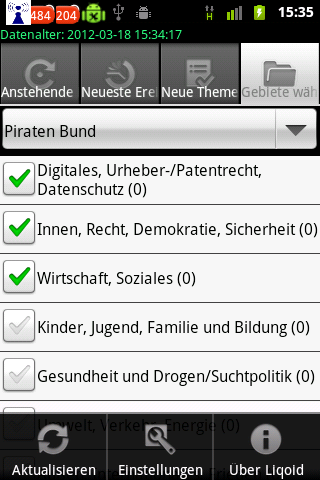
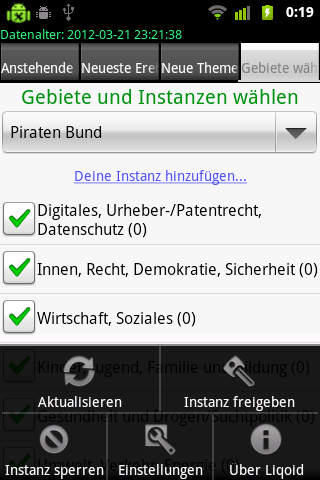
Userguide snapshots aktualisiert

diff --git a/src/de/quadrillenschule/liquidroid/LiqoidApplication.java b/src/de/quadrillenschule/liquidroid/LiqoidApplication.java
@@ -156,11 +156,11 @@ public class LiqoidApplication extends Application {
                 lin.setDeveloperkey(textfield.getText().toString());
                 lqfbInstances.add(lin);
                 lqfbInstances.getLockedInstances().remove(lin);
-           }
-        }).setNegativeButton(R.string.cancel, null).setNeutralButton(R.string.toinstance,new DialogInterface.OnClickListener() {
+            }
+        }).setNegativeButton(R.string.cancel, null).setNeutralButton(R.string.toinstance, new DialogInterface.OnClickListener() {
 
             public void onClick(DialogInterface arg0, int arg1) {
-                   Intent myIntent = new Intent(Intent.ACTION_VIEW, Uri.parse(lin.getWebUrl()));
+                Intent myIntent = new Intent(Intent.ACTION_VIEW, Uri.parse(lin.getWebUrl()));
                 myIntent.addFlags(Intent.FLAG_ACTIVITY_CLEAR_WHEN_TASK_RESET);
                 textfield.getContext().startActivity(myIntent);
             }

diff --git a/src/de/quadrillenschule/liquidroid/model/LQFBInstances.java b/src/de/quadrillenschule/liquidroid/model/LQFBInstances.java
@@ -35,8 +35,22 @@ public class LQFBInstances extends ArrayList<LQFBInstance> {
             }
         }
         if (toAdd.getDeveloperkey().equals("")) {
+            for (LQFBInstance lockedi : getLockedInstances()) {
+                if (lockedi.getShortName().equals(toAdd.getShortName())) {
+                    return false;
+                }
+            }
             return getLockedInstances().add(toAdd);
         } else {
+            LQFBInstance toRemove = null;
+            for (LQFBInstance lockedi : getLockedInstances()) {
+                if (lockedi.getShortName().equals(toAdd.getShortName())) {
+                    toRemove = lockedi;
+                }
+            }
+            if (toRemove != null) {
+                getLockedInstances().remove(toRemove);
+            }
             return super.add(toAdd);
         }
 

diff --git a/src/de/quadrillenschule/liquidroid/gui/IssueItemView.java b/src/de/quadrillenschule/liquidroid/gui/IssueItemView.java
@@ -47,7 +47,7 @@ public class IssueItemView extends LinearLayout implements OnClickListener {
         myCheckBox = new CheckBox(activity, null, android.R.attr.starStyle);
         myCheckBox.setTextColor(Color.BLACK);
         myCheckBox.setBackgroundColor(Color.argb(255, 245, 245, 245));
-        myCheckBox.setText(initiative.name);
+        myCheckBox.setText(initiative.name+" ("+((int)initiative.getConcurrentInis().size()+1)+" Alt.)");
         myCheckBox.setChecked(initiative.getArea().getInitiativen().isIssueSelected(initiative.issue_id));
         myCheckBox.setOnClickListener(this);
         myCheckBox.setLayoutParams(new LayoutParams(LayoutParams.FILL_PARENT, LayoutParams.FILL_PARENT));
